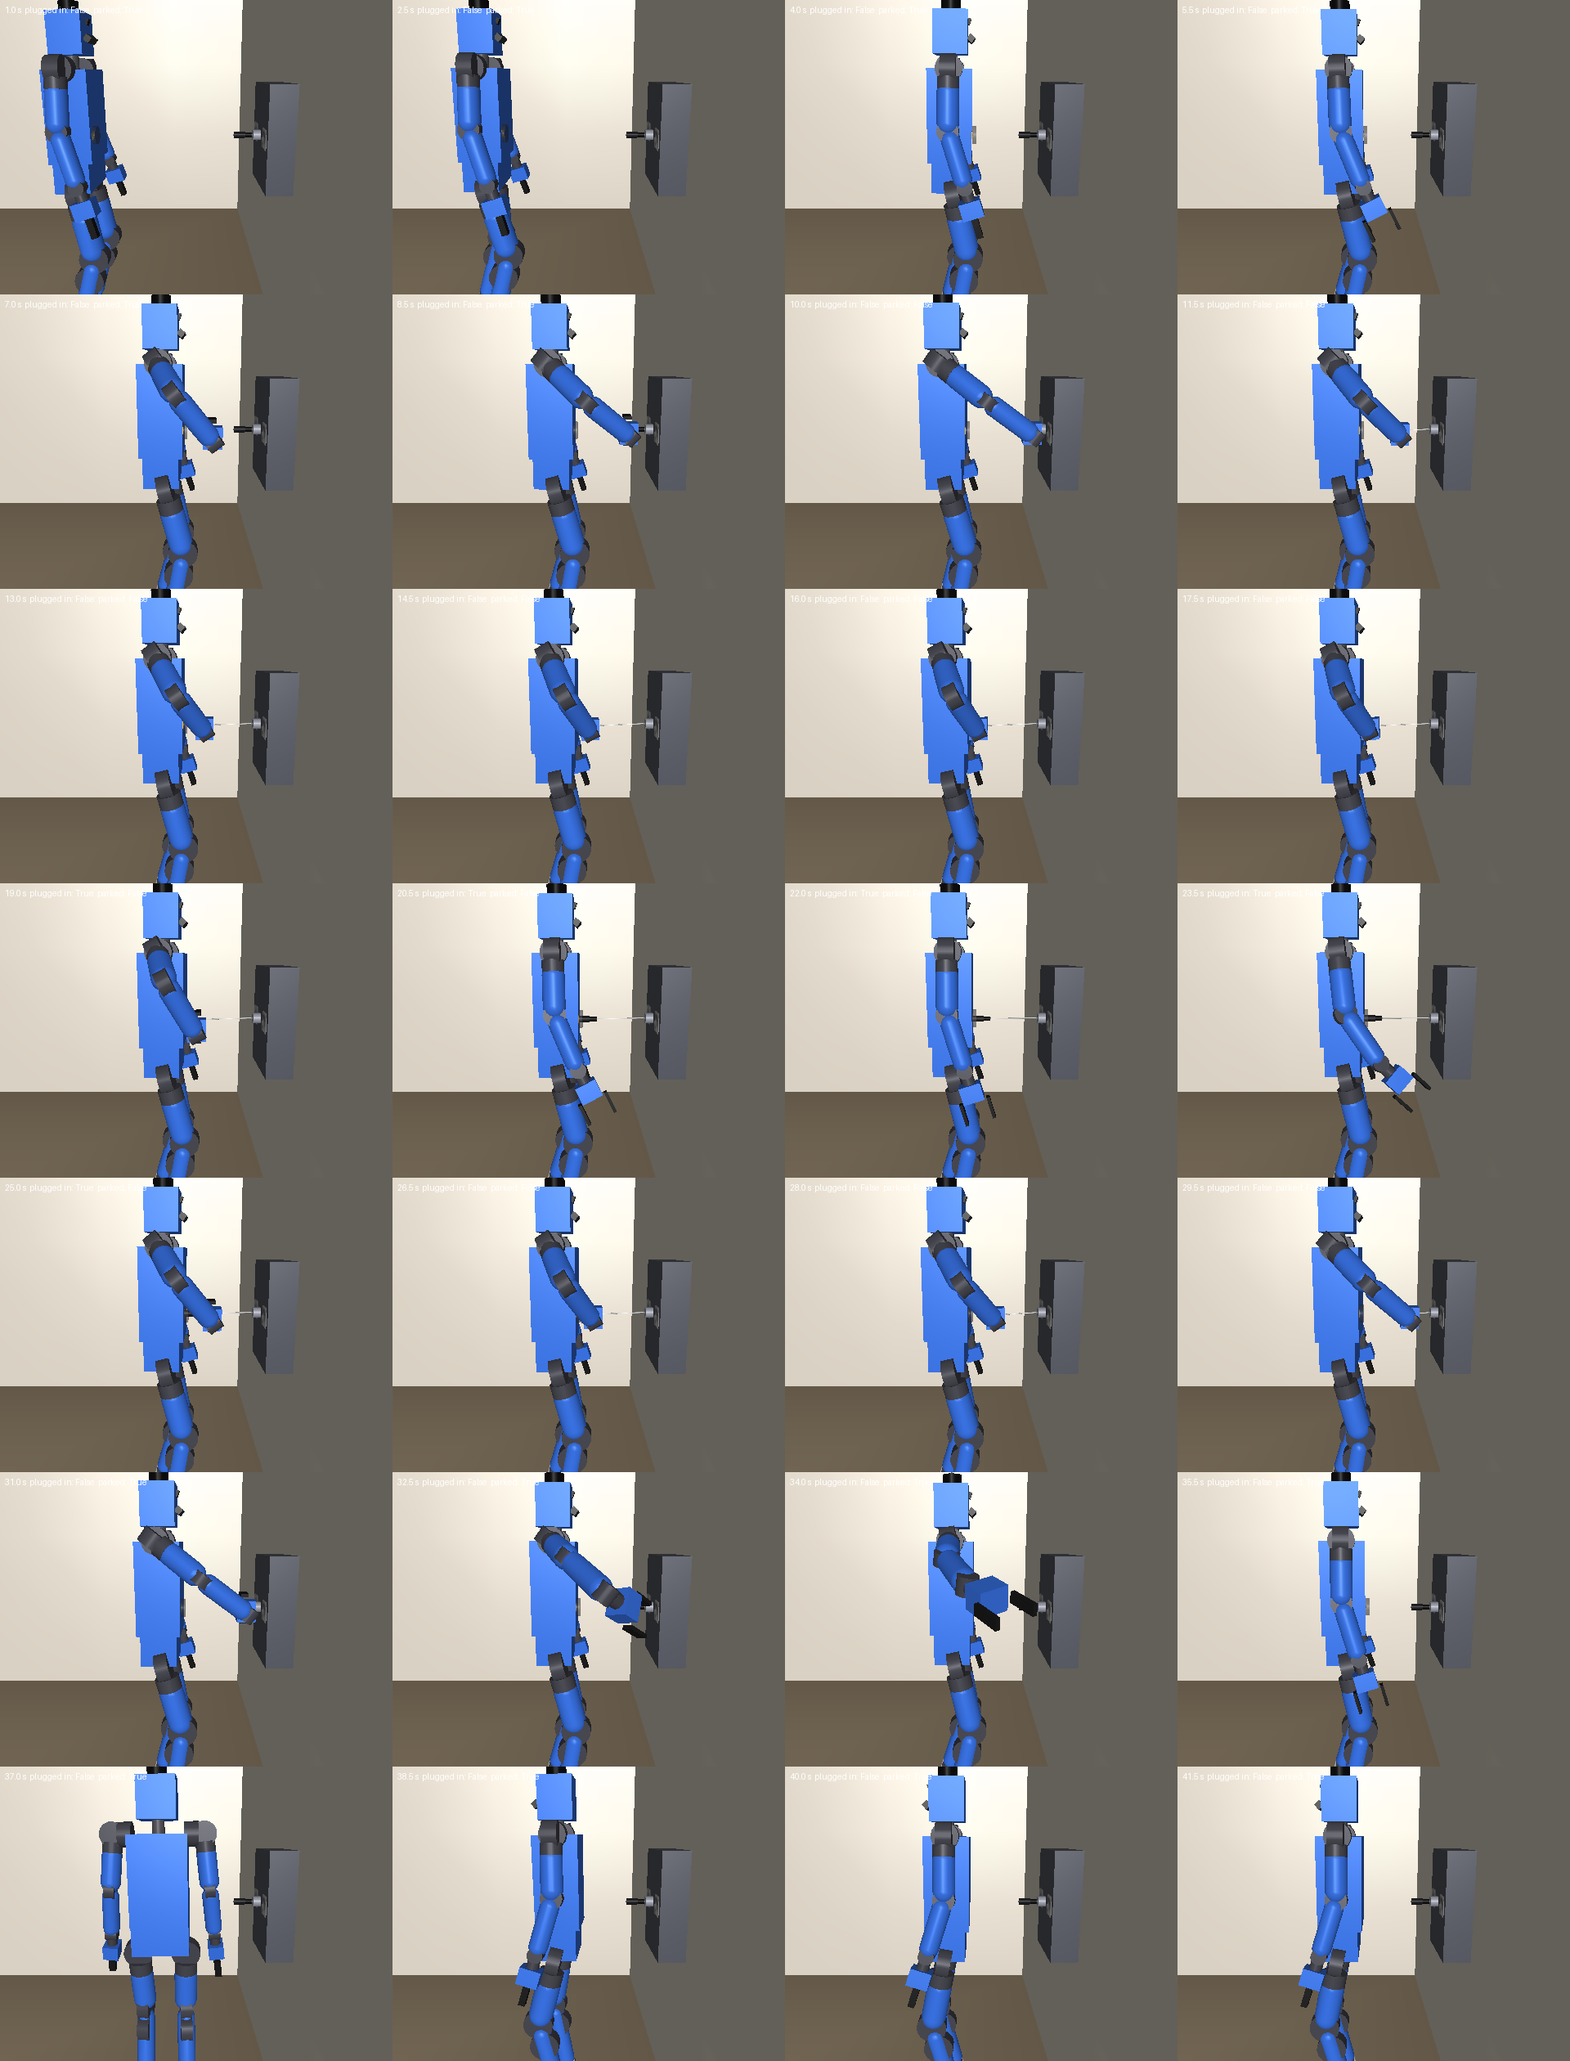
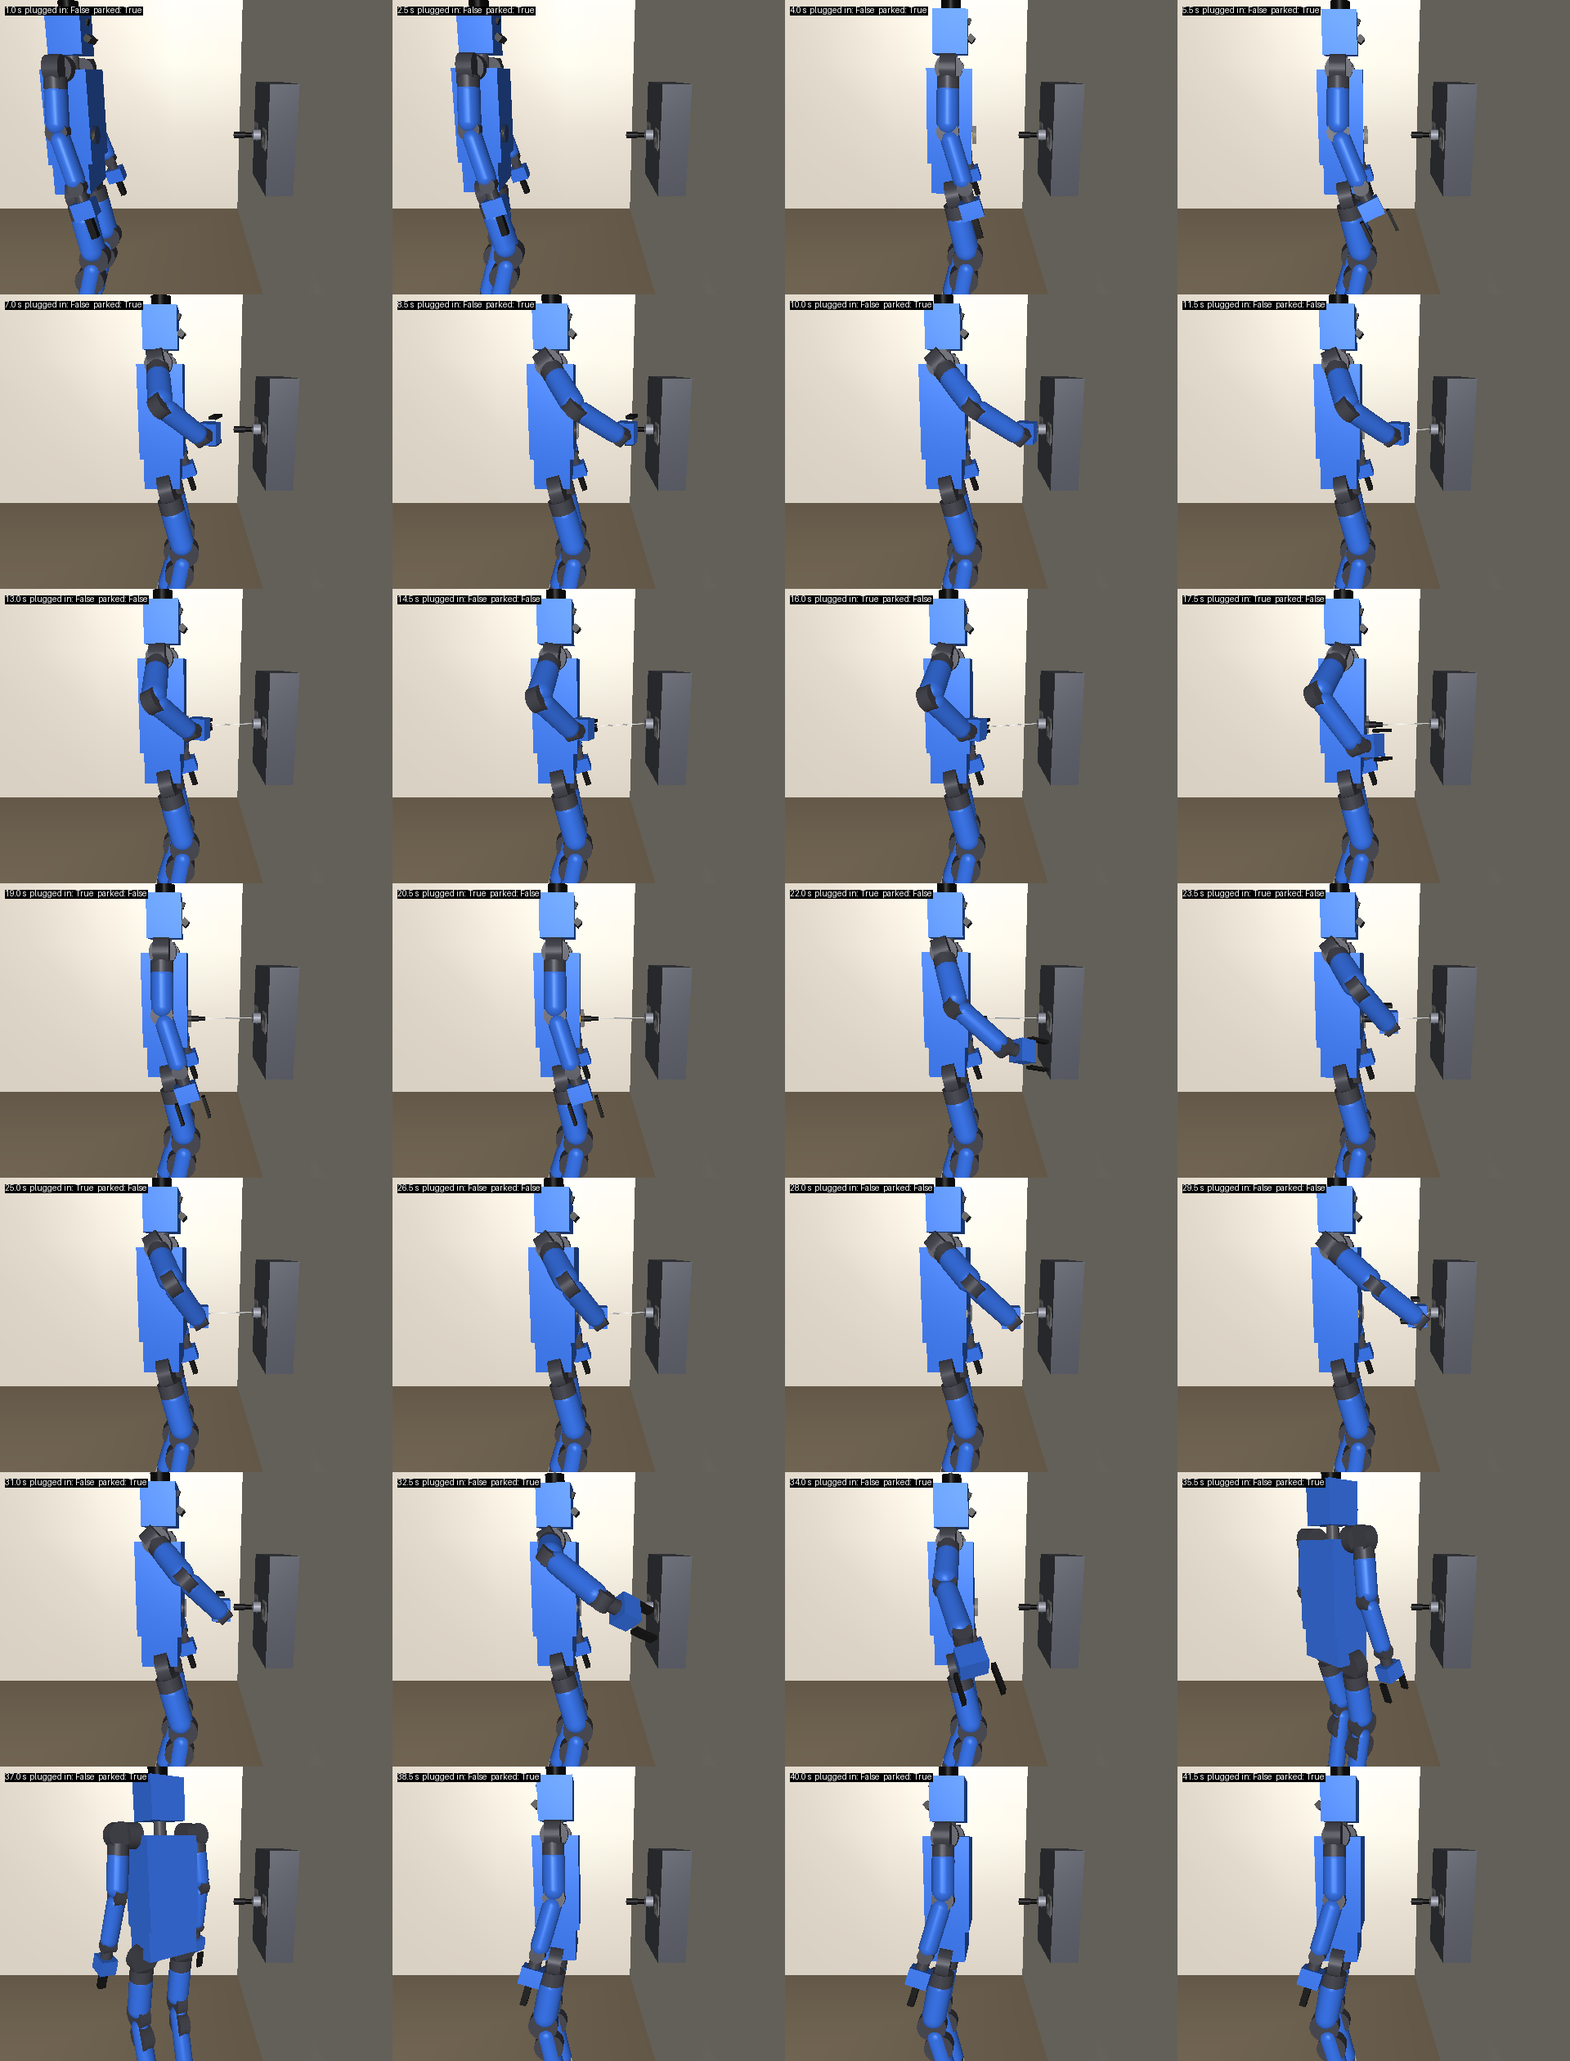
station_spike --strip fall: a humanoid knocked over plugged in, its filmstrip; the plug-in's drawn again on today's grip (#559)
#559's last scene: a humanoid shoved over while plugged in, the plug
breaking away and drawn home by its balancer, the robot up again. Its
viewer scene was there (`--view fall`); `--strip fall` is its filmstrip, a
tile every 0.5 s from just before the shove until it is up and the plug
home, from the viewer's wider camera: docs/figures/humanoid_station_fall.png.

The plug-in's filmstrip, docs/figures/humanoid_station.png, was drawn in
stage 2, before stage 3 swung the grip 20 deg toward the plug's back, and
no doc cited it: drawn again on today's routine, and both cited in
SimNotes' charging station. A filmstrip's caption gets a dark band (it was
lost against the wall), and protocol/README.md names `quadruped-final`'s
commit as it now is, 638e1a3: #578 merged before #576.

diff --git a/scripts/station_spike.py b/scripts/station_spike.py
@@ -597,10 +597,13 @@ def _follows(lost) -> bool:
 def strip(scene: str = "plug", out: str = "station_spike.png",
           lost=("station", LOST_SCENE_OFF)) -> None:
   """The scene headless, a tile every 1.5 s from beside the station -- or,
-  `lost`, every 4 s from further back: the loop's charge path from
-  `lost`'s start (2 m out), its belief set `lost`'s offset wrong
-  (`LOST_SCENE_OFF`); given a start or an offset of its own, every 8 s
-  from over the robot (`_follows`)."""
+  `fall`, every 0.5 s from the viewer's wider camera, from just before the
+  shove (its walk in is `plug`'s) until it is up and the plug home -- or,
+  `lost`, every
+  4 s from further back: the loop's charge path from `lost`'s start (2 m
+  out), its belief set `lost`'s offset wrong (`LOST_SCENE_OFF`); given a
+  start or an offset of its own, every 8 s from over the robot
+  (`_follows`)."""
   from PIL import Image, ImageDraw
   follow = scene == "lost" and _follows(lost)
   if scene == "lost":
@@ -613,12 +616,15 @@ def strip(scene: str = "plug", out: str = "station_spike.png",
   tiles, due = [], [0.0]
   s = body._station
   every, (lx0, ly0, lz0), dist = ((4.0, *VIEW_CAM["lost"]) if scene == "lost"
+                                  else (0.5, *VIEW_CAM["fall"]) if scene == "fall"
                                   else (1.5, (-0.25, 0.0, 0.85), 1.4))
   if follow:
     every = FOLLOW_EVERY_S
+  # ...the fall's tiles begin once it is plugged in
+  filming = [scene != "fall"]
 
   def hook():
-    if data.time < due[0]:
+    if not filming[0] or data.time < due[0]:
       return
     due[0] = float(data.time) + every
     cam = mujoco.MjvCamera()
@@ -636,11 +642,15 @@ def strip(scene: str = "plug", out: str = "station_spike.png",
     model.vis.headlight.ambient[:], model.vis.headlight.diffuse[:] = light
     f = station.flags
     caption = f"{data.time:.1f} s  plugged in: {bool(f['mated'])}  parked: {f['parked']}"
+    if scene == "fall" and body.mission.legs == "getup":
+      caption += "  getting up"
     if follow:
       m, deg = _off(body.pose, body.true_pose())
       caption = (f"{data.time:.1f} s  belief {m:.2f} m {deg:+.0f} deg off  "
                  f"plugged in: {bool(f['mated'])}")
-    ImageDraw.Draw(img).text((6, 6), caption, fill=(255, 255, 255))
+    draw = ImageDraw.Draw(img)
+    draw.rectangle(draw.textbbox((6, 6), caption), fill=(0, 0, 0))
+    draw.text((6, 6), caption, fill=(255, 255, 255))
     tiles.append(img)
 
   body.step_hooks.append(hook)
@@ -648,10 +658,23 @@ def strip(scene: str = "plug", out: str = "station_spike.png",
     why = "docked" if life.go_charge() else life.charge_failure
   else:
     why = body.run(body.dock_routine())
+  if scene == "fall" and why == "docked":
+    filming[0], due[0] = True, float(data.time)
   body.run(body.dock_hold_routine(2.0))
   if scene == "plug" and why == "docked":
     body.run(body.undock_routine())
     body.run(body.hold_routine(3.0))
+  elif scene == "fall" and why == "docked":
+    shove(body, model, data)
+    t0 = float(data.time)
+    # ...until it is up and the plug home (`fall`'s 20 s at most), and 2 s on
+    while float(data.time) - t0 < 20.0 and not (
+        float(data.time) - t0 > 2.0 and body.mission.legs != "getup"
+        and station.flags["parked"]):
+      body.run(body.hold_routine(0.25))
+    body.run(body.hold_routine(2.0))
+  if not tiles:
+    raise SystemExit(f"{why}: nothing to draw")
   r.close()
   body.close()
   w, h = tiles[0].size
@@ -789,8 +812,9 @@ def main(argv=None) -> int:
                   help="the lost scene's belief set wrong, m along the station's +x, m "
                        "across it, deg (0.7,0,0)")
   ap.add_argument("--view", nargs="?", const="plug", choices=("plug", "fall", "lost"))
-  ap.add_argument("--strip", nargs="?", const="plug", choices=("plug", "lost"),
-                  help="the scene's filmstrip, station_spike.png (lost: station_spike_lost.png)")
+  ap.add_argument("--strip", nargs="?", const="plug", choices=("plug", "fall", "lost"),
+                  help="the scene's filmstrip, station_spike.png (fall: station_spike_fall.png, "
+                       "lost: station_spike_lost.png)")
   ap.add_argument("--out", default=None)
   ap.add_argument("--one", default=None, help=argparse.SUPPRESS)
   ap.add_argument("--one-walk-in", default=None, help=argparse.SUPPRESS)
@@ -833,8 +857,10 @@ def main(argv=None) -> int:
             if args.walk_in else
             [hold(args.seconds)] if args.hold else [fall()] if args.fall else None)
   if rows is None:
-    strip(args.strip or "plug", "station_spike_lost.png" if args.strip == "lost"
-          else "station_spike.png", lost)
+    strip(args.strip or "plug", {"lost": "station_spike_lost.png",
+                                 "fall": "station_spike_fall.png"}.get(args.strip,
+                                                                       "station_spike.png"),
+          lost)
     return 0
   if args.out:
     Path(args.out).write_text(json.dumps(rows, indent=1))

diff --git a/CLAUDE.md b/CLAUDE.md
@@ -268,7 +268,7 @@ save a filmstrip PNG named after the script.
 | `scripts/grid_spike.py` | #558: what a robot's map costs as the world grows, at 1-4x today's cells (the bounds grown round the house), each scale its own process, through the humanoid's own code: each scan's, frame's and plan's work, the explore's mask and A*, the matcher's field, the wire's PNG, `world.npz`, memory, on #215's synthetic grid and the house laid by the robot's own senses; `--walks [SIM_S]` the humanoid pair walking #507's routes at each scale; `--scales`, `--repeat`, `--no-table`, `--out` |
 | `scripts/determinism_spike.py` | is the world the same world twice? N scripted days hashed, first divergence attributed to GPU / decoder / raycast; `--pair` (`--fall-at`, `--drain-at`); `--compare DIR`; `--resume-at T` flies a day against one saved and carried on in a new process (#345); `--no-economy`, `--sequential`, `--nthreads` |
 | `scripts/make_way_spike.py` | #415 on two legs (#559): the humanoid pair in the house on true-floor maps, one robot resting standing in a doorway and the other walking through it, one process a scene: the walk's end, the step aside (how far, how long, why it stopped), touches and falls; `--before` nobody asks, `--finished` the resting robot's day is over, `--scene A,B`, `--drift`/`--drift-walker` a map laid off the world, `--standing S`, `--near-field` |
-| `scripts/station_spike.py` | the humanoid's charging station (#559 stage 2; SimNotes "The humanoid's charging station"): `--approach [--n N] [--parallel P]` docked and unplugged or why not from seeded starts round the standoff, one process a trial; `--seats` started at 140 seats over what the seat check accepts: plugged in and unplugged or why not; `--lost [--n N]` a fresh robot 2 m out, its belief set 0.4-1 m wrong: the loop's charge path, its lost search and the fix; `--hold [--seconds S]` plugged in: the charger's watts against what it draws; `--fall` shoved over plugged in: the breakaway, the plug home, the robot up; `--walk-in [--explore 120,240]` explored, walked out to 8 places across the house on its own map, then the loop's own `go_charge`; `--view [plug\|fall]` in the viewer, looped (MUJOCO_GL unset); filmstrip `station_spike.png` |
+| `scripts/station_spike.py` | the humanoid's charging station (#559 stage 2; SimNotes "The humanoid's charging station"): `--approach [--n N] [--parallel P]` docked and unplugged or why not from seeded starts round the standoff, one process a trial; `--seats` started at 140 seats over what the seat check accepts: plugged in and unplugged or why not; `--lost [--n N]` a fresh robot 2 m out, its belief set 0.4-1 m wrong: the loop's charge path, its lost search and the fix; `--hold [--seconds S]` plugged in: the charger's watts against what it draws; `--fall` shoved over plugged in: the breakaway, the plug home, the robot up; `--walk-in [--explore 120,240]` explored, walked out to 8 places across the house on its own map, then the loop's own `go_charge`; `--view [plug\|fall\|lost]` in the viewer, looped (MUJOCO_GL unset); `--strip [plug\|fall\|lost]` its filmstrip, `station_spike.png` (`_fall`, `_lost`) |
 | `scripts/solve.py --feature drawer` | ladder A of #264 on the humanoid's hands (#559): a hand job (`--feature drawer\|door\|cube\|chest`: `open_drawer`, `open_door`, `place_cube`, `open_chest`) offered on the storeroom's counter, its prop drawn (`--draw K`) and set out, claimed, the reference's two procedures (`challenge/solutions.py`) run as the robot's, `done`, graded on the seam; a fresh humanoid on a fresh map from the station (`--from station\|store`, or `tour`: flight k from the next of eight places across the house), `--n` draws a process each (`--jobs`, `--into DIR`), `--view`, `--strip` (`--strip-out PATH`); filmstrip `solve.png` |
 | `scripts/board_png.py` | a whiteboard's ink as a PNG from the boards state file or a recording. ⚠ +lat is the viewer's LEFT, as in the site's `surfaces/board.ts`; the test pins it because every figure the quadruped's pen drew is symmetric |
 | `scripts/humanoid_spike.py` | the humanoid (#507; SimNotes "The humanoid body", "The humanoid stands, reaches and grasps", "The humanoid behind Body", "The humanoid walks", "The humanoid climbs, falls and gets up" and "One walker that sees the ground", Parts.md "The humanoid body"): `--view body` the body held up on a gantry in the house, each joint through its range, then the grippers; `--view stand` its standing policy shoved, crouching and bowing, `--view reach` a hand to a counter, a high shelf, a low shelf and the floor through `Body`, its get-up loaded, `--view grasp` a drawer's handle gripped and pulled, `--view pull` a locked handle pulled at `pull`'s most, 20 N, each way (#544), `--view bar` the `pull` verb on it at its most, back, up, forward and down (#547), `--view feel` 20 N staged at a held-out hand, what its arm and its whole body read (#547), `--view demo` the chest's knob on a counter found by its tag, reached and gripped through `Body`, `--view walk` living room to kitchen and back on its own map, `--view rough` the walker that sees the ground (not served) across doorsteps, paving, a slope and blocks, `--view stairs` it up the house's flight on its own map, round on the landing and down, `--view fall` shoved over three ways, its get-up taking each fall, `--view getup` up off its back, its front and its side (`--strip SCENE` the filmstrip, `--policy NPZ` another standing policy, `--getup-policy NPZ`); `--mass` beside the T2's published model, `--torque` held in our physics and the walking, the stairs and the get-up FLOWN, `--thermal`, `--energy`, `--sensors`; `--friction [--write]` its arm joints' friction calibrated in free air beside the sheets', kept in `models/humanoid_friction.json`; `--shove` the shoves it stands through, `--envelope` the reach flown floor to over the head, `--hold` a locked handle pulled harder, `--pulls` a hand pulling each of 14 ways at a counter's height until it falls, `--bar` the force move on the locked handle each way at 10 and 20 N (`--oracle` closed on its true force: the loop's floor), `--feel` what its arm and its whole body read of 20 N staged at the grip, still and swaying (#547), `--handover [N]` the walk's hand-over at a standstill through `step` (#544), `--demo-table [N]` the demo's set-outs flown through `Body`, `--track` / `--rough [NPZ,...]` the served and any walker asked each command on a bare floor / over a doorstep, paving, a slope and blocks (one that sees the ground on its own map), `--odometry` the leg odometry against the truth, `--climb [NPZ]` flights of five at each riser up and down on the ideal scan and its own map, `--fall [NPZ]` shoved over six ways standing, limp or getting up, in five places in the house, and from each bow a reach takes (#520), `--speed [SIM_S]` the real-time multiple of one humanoid and a pair, the same walks in the house (`--profile`); filmstrip `humanoid_spike.png` |

diff --git a/docs/SimNotes.md b/docs/SimNotes.md
@@ -3511,6 +3511,11 @@ mouth and let go there. One that fails still ends unplugged: the robot turns
 away, the rope's stop pulls the plug off at 20 N and the balancer takes it
 home.
 
+![The plug-in and the unplug: from its standoff the humanoid walks in, takes
+the plug out of its cup, plugs it into the port on its torso (16 s),
+charges, unplugs it (26.5 s), hands it back to the cup and turns away, a
+tile every 1.5 s (`station_spike.py --strip plug`)](figures/humanoid_station.png)
+
 ![Lost and found by its station: a humanoid 2 m out, its belief set 0.7 m
 nearer the wall than it is, walks to where it believes the standoff is
 (1.45 m off the station's face, the tags above its colour camera), sees
@@ -3548,6 +3553,11 @@ standoff goes again on it.
 none: where the plug sits in the jaws still misses pushes now and then. The
 reserve's own dock leg gave up on the explore's map and is carried by rate;
 one station a world.
+
+![Knocked over plugged in: shoved backward, the humanoid falls, the plug
+breaks away at the port and swings on its rope, and its balancer draws it
+home into the cup about 2 s later as the robot gets up, a tile every 0.5 s
+(`station_spike.py --strip fall`)](figures/humanoid_station_fall.png)
 
 ## The humanoids' first jobs (issue #559, stage 3)
 

diff --git a/protocol/README.md b/protocol/README.md
@@ -53,7 +53,7 @@ pair, `home_humanoid_pair` (`home_quad_pair` until #559's stage 4).
 ### 0.21.0, nothing new: the quadruped retired (its fixtures, `reset_tool`, the screens)
 
 pluggybot #559's stage 5 deletes the quadruped; the tag `quadruped-final`
-(4333f30) is the last commit that serves it. No message's shape moves, so
+(638e1a3) is the last commit that serves it. No message's shape moves, so
 there is no bump, and the served stream is stage 4's: the humanoid pair in
 `home_humanoid_pair`, its prompt and every message the same byte for byte,
 but for the header (below).
